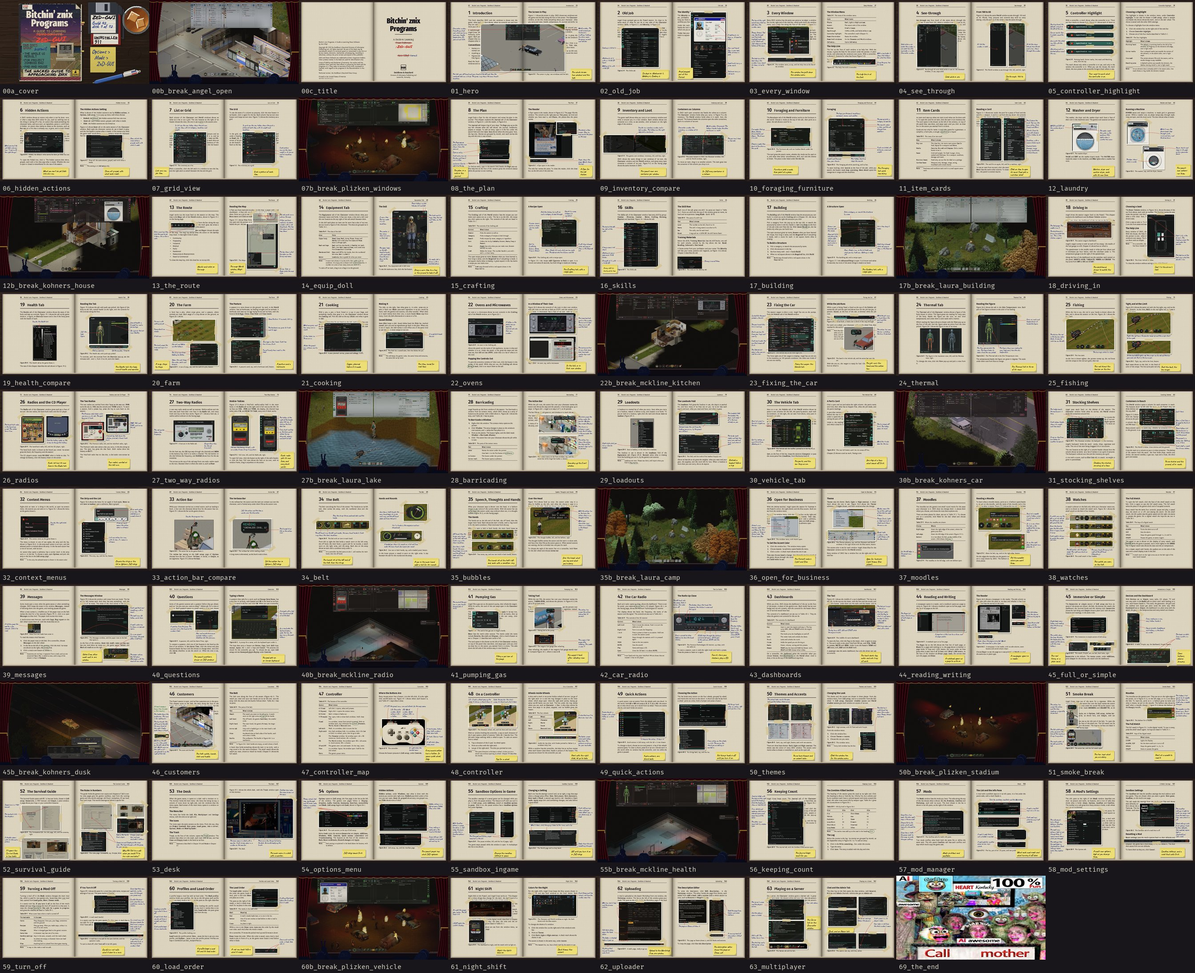
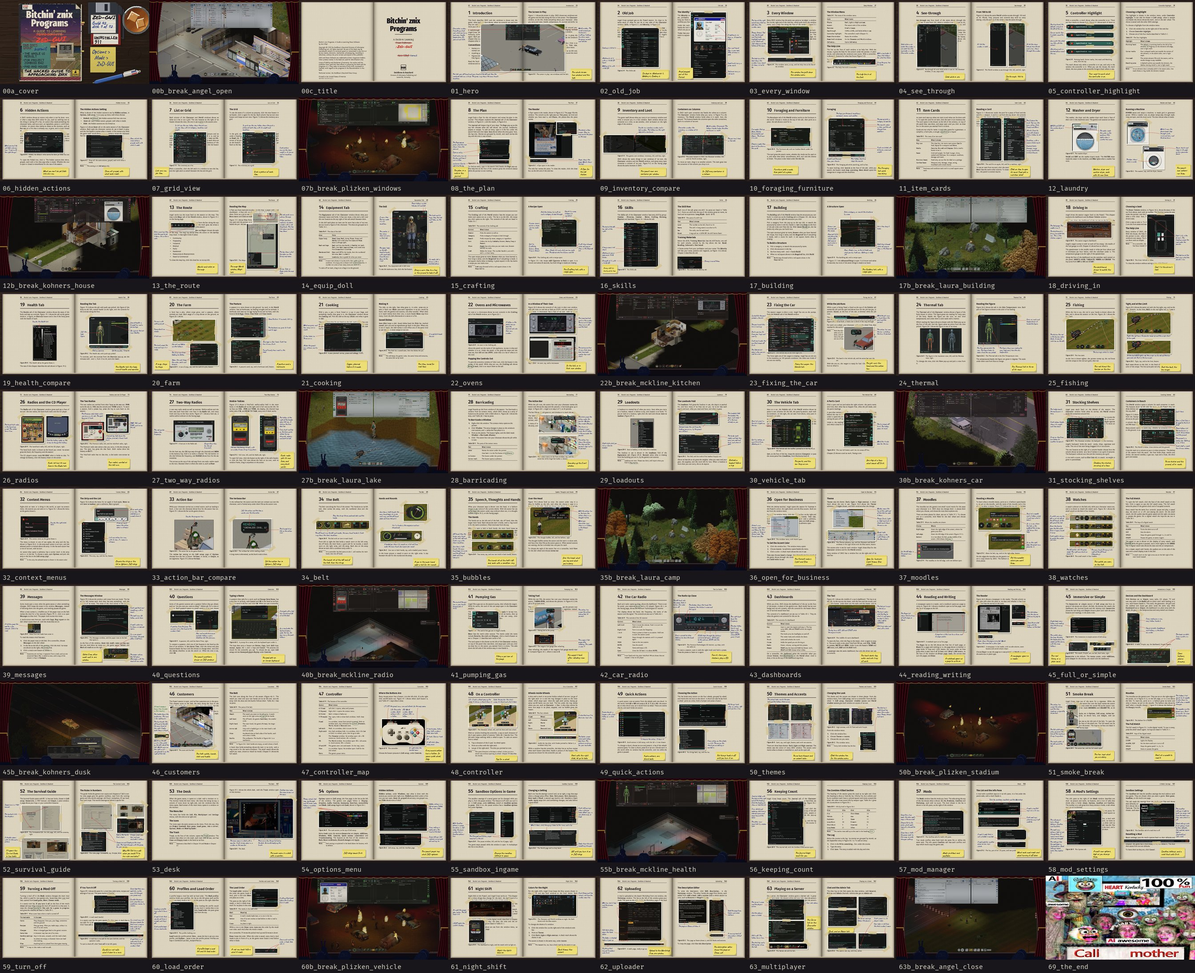
Gallery b12 complete: 80 pictures (QA's five retakes framed, Angel's closer at night with three survivors)

Changed region(s): [[0.75, 0.9005, 1.0, 1.0]]

diff --git a/ZeDUI/workshop/gallery/B12_ORDER.md b/ZeDUI/workshop/gallery/B12_ORDER.md
@@ -2,7 +2,7 @@
 
 Written by `make_b12.py` (plan v2, `PLAN_ALTERNATE_20261111.md`). Upload `upload_b12/` in file-name order, one picture at a time. Every picture is 1920 x 1080, each under 1 MB. Contact sheet: `upload_contact_b12.jpg`.
 
-79 pictures now; 80 when every shot is in.
+80 pictures now; 80 when every shot is in.
 
 | # | Picture | What it is |
 |---|---|---|
@@ -84,11 +84,9 @@ Written by `make_b12.py` (plan v2, `PLAN_ALTERNATE_20261111.md`). Upload `upload
 | 76 | `61_night_shift.jpg` | chapter 61, Night Shift (story) |
 | 77 | `62_uploader.jpg` | chapter 62, Uploading |
 | 78 | `63_multiplayer.jpg` | chapter 63, Playing on a Server |
-| 79 | `63b_break_angel_close.jpg` | break (`cinema/cin_ang_close.jpg`): Angel, Light + Blue, night: Angel meets a group of survivors on a server, Server and Loot **(missing)** |
+| 79 | `63b_break_angel_close.jpg` | break (`cinema/cin_ang_close.jpg`): Angel, Light + Blue, night: Angel meets a group of survivors on a server, Server and Loot |
 | 80 | `69_the_end.jpg` | the director's closing picture |
 
 ## Missing shots
 
-Each is framed and placed when its raw 4K capture is in `~/Zomboid/Screenshots` under this name; then run `py make_b12.py` again.
-
-- `cin_ang_close.png` for `63b_break_angel_close.jpg`: Angel, Light + Blue, night: Angel meets a group of survivors on a server, Server and Loot
+None.
